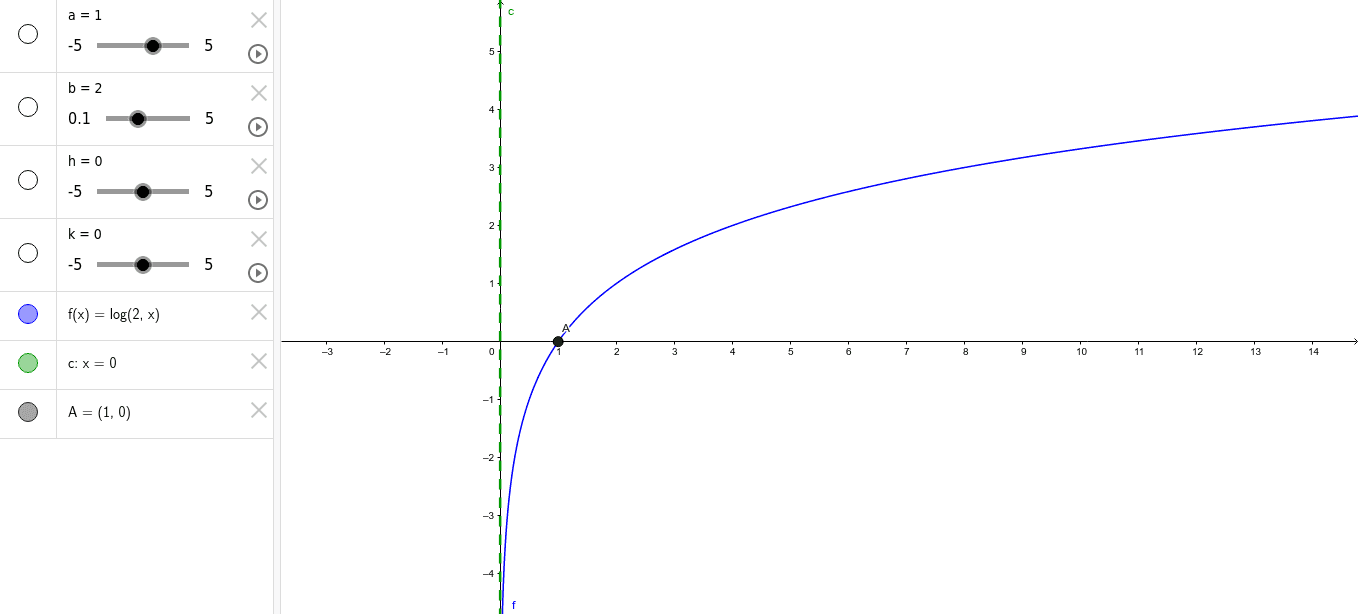
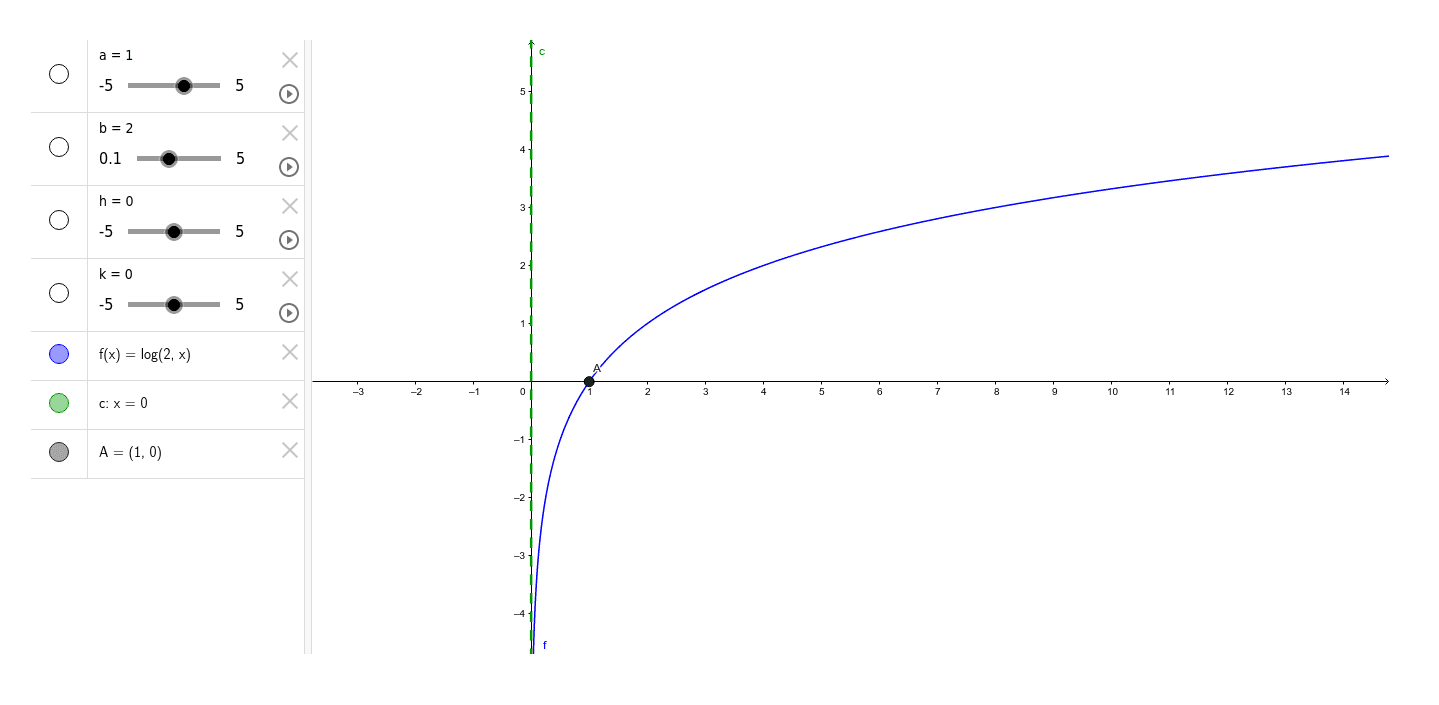
Got rid of the line. Project: Completed

diff --git a/MyCanvas.java b/MyCanvas.java
@@ -209,7 +209,6 @@ public class MyCanvas extends Canvas{
         addSize.dispose();
 
         // Enlarging the pixel of a line/graph
-        // -- Working Section
         if(bold != 0){
             for (int y = 0; y < height; y++) {
                 for (int x = 0; x < width; x++) {
@@ -223,7 +222,7 @@ public class MyCanvas extends Canvas{
                             int back = x--;
                             inputFile.setRGB(back, y, col.getRGB());
                         }
-                        
+
                         for (int j = 0; j < bold; j++){
                             x++;
                             inputFile.setRGB(x, y, col.getRGB());
@@ -242,8 +241,9 @@ public class MyCanvas extends Canvas{
                                         col.getBlue());
                         for(int i = 0; i < bold; i++){
                             int up = y--;
-                            inputFile.setRGB(up, y, col.getRGB());
+                            inputFile.setRGB(x, up, col.getRGB());
                         }
+
                         for (int j = 0; j < bold; j++){
                             y++;
                             inputFile.setRGB(x, y, col.getRGB());
@@ -265,8 +265,6 @@ public class MyCanvas extends Canvas{
                 inputFile.setRGB(x, y, col.getRGB());
             }
         }
-
-        
 
         // Change the contrast of the image
 
@@ -293,7 +291,7 @@ public class MyCanvas extends Canvas{
 
         //Creating an output image
         try {
-            ImageIO.write(resizedImage, extensionStr, new File("2invert-" + imageName));
+            ImageIO.write(resizedImage, extensionStr, new File("invert-" + imageName));
         } catch (IOException e) {
             e.printStackTrace();
         }
